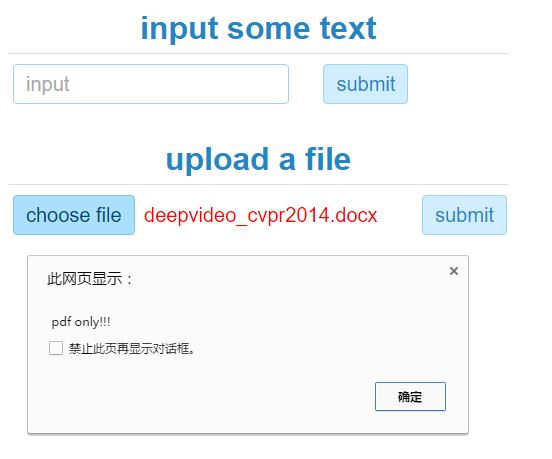
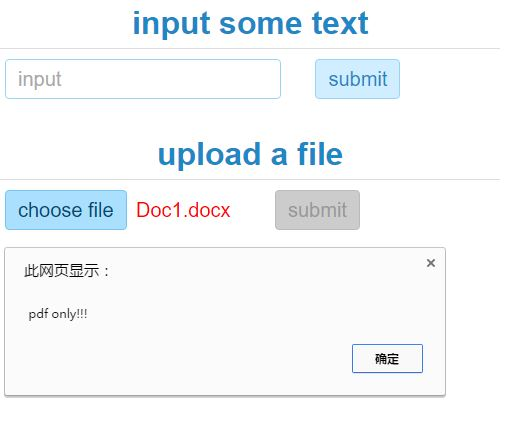
disable uploading of wrong files

diff --git a/input-beautify/text-file.html b/input-beautify/text-file.html
@@ -100,6 +100,12 @@
             color: #999;
             font-size: 20px;
         }
+        #sub2:disabled {
+            background-color: #ccc;
+            color: #999;
+            border: 1px solid #bbb;
+            cursor: auto;
+        }
     </style>
 </head>
 <body>
@@ -121,6 +127,7 @@
         var container = document.getElementById('fileContainer');
         var fileUpload = document.getElementById('fileUpload');
         var result = document.getElementById('result');
+        var sub2 = document.getElementById('sub2');
         container.onchange = function(){
             if(!fileUpload.value) {
                 result.innerHTML = 'no file chosen';
@@ -141,11 +148,13 @@
             if(end !== 'pdf') {
                 result.innerHTML = fileName;
                 result.style.color = 'red';
+                sub2.disabled = true;
                 alert(' pdf only!!!');
                 return;
             } else {
                 result.innerHTML = fileName;
                 result.style.color = '#999';
+                sub2.disabled = false;
             }
         }
     </script>

diff --git a/input-beautify/readme.md b/input-beautify/readme.md
@@ -4,8 +4,10 @@
 ![init.JPG-21.7kB](http://static.zybuluo.com/helicese/ydszly8j9t7v9dnafd3y7kyy/init.JPG)
 ### when choose the correct file
 ![right.JPG-21.8kB](http://static.zybuluo.com/helicese/1wsm0nucmy9fq58tlgzah6fn/right.JPG)
+
 ### when choose the incorrect file
-![wrong.JPG-30.5kB](http://static.zybuluo.com/helicese/rln0ww5nfe7gpd77orya6sci/wrong.JPG)
+![wrong.JPG-30.5kB](http://static.zybuluo.com/helicese/fmllji3xzus9ipb8v2kdj1nz/wrong.JPG)
+- when the chosen file is of the wrong type, just disable the submit button
 
 #beautify the input of text
 - so easy, just change the style of the border
